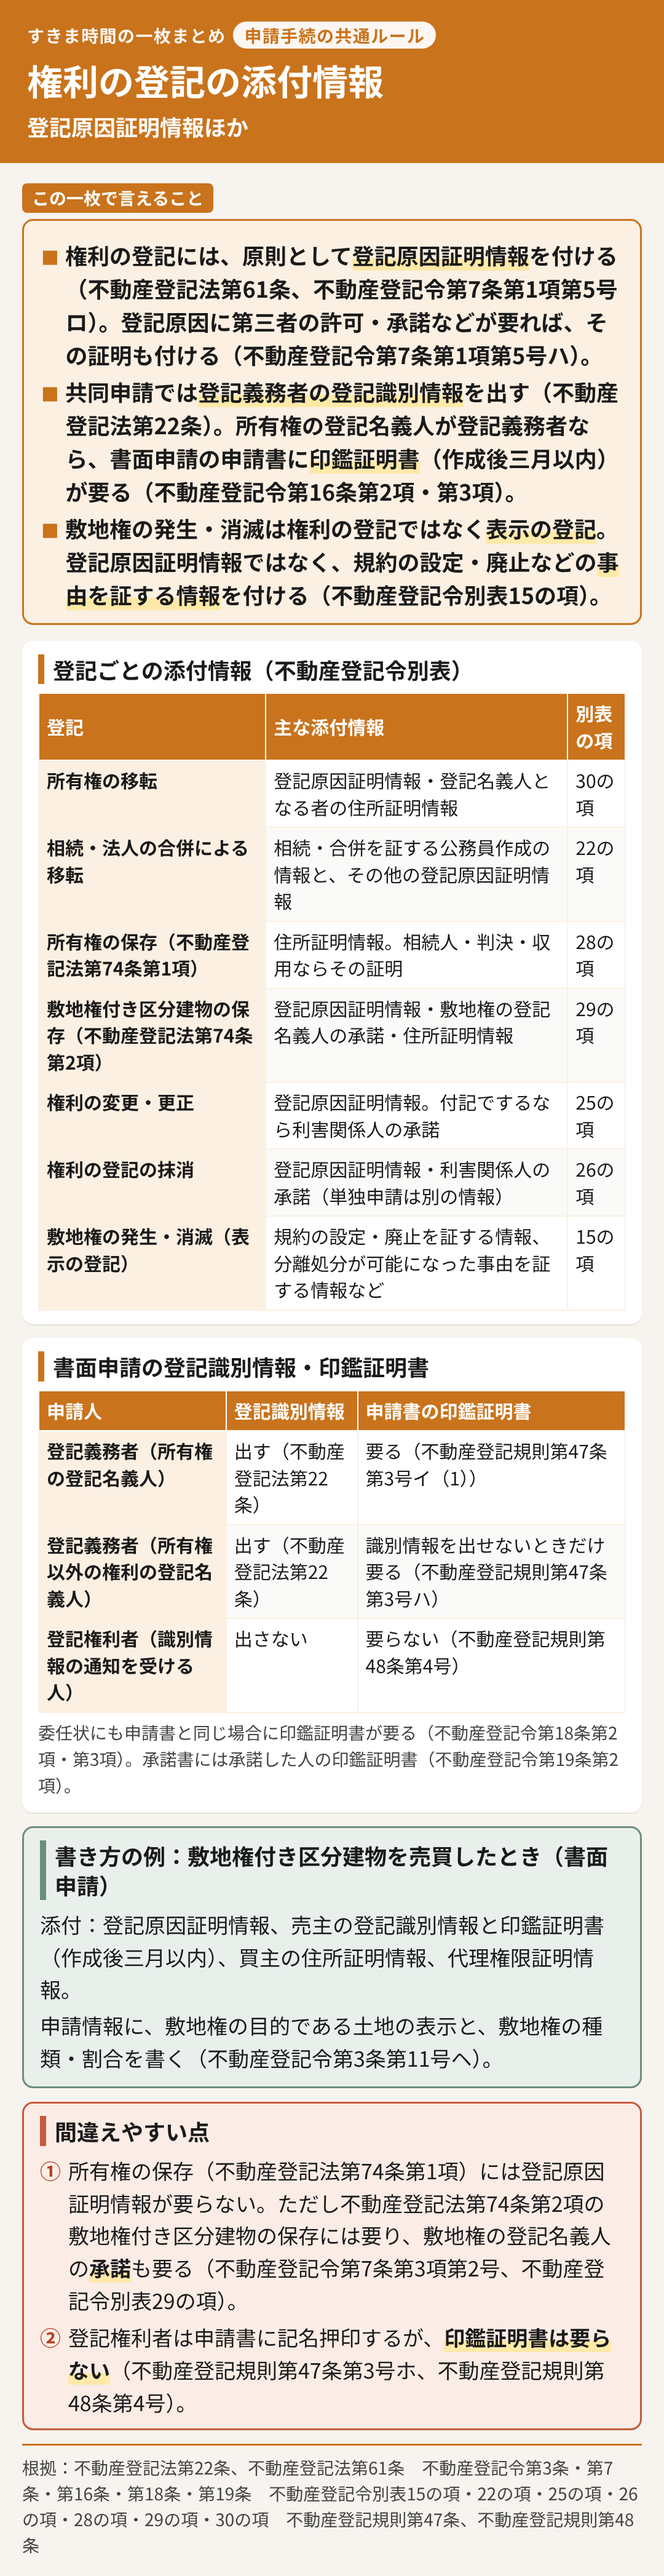
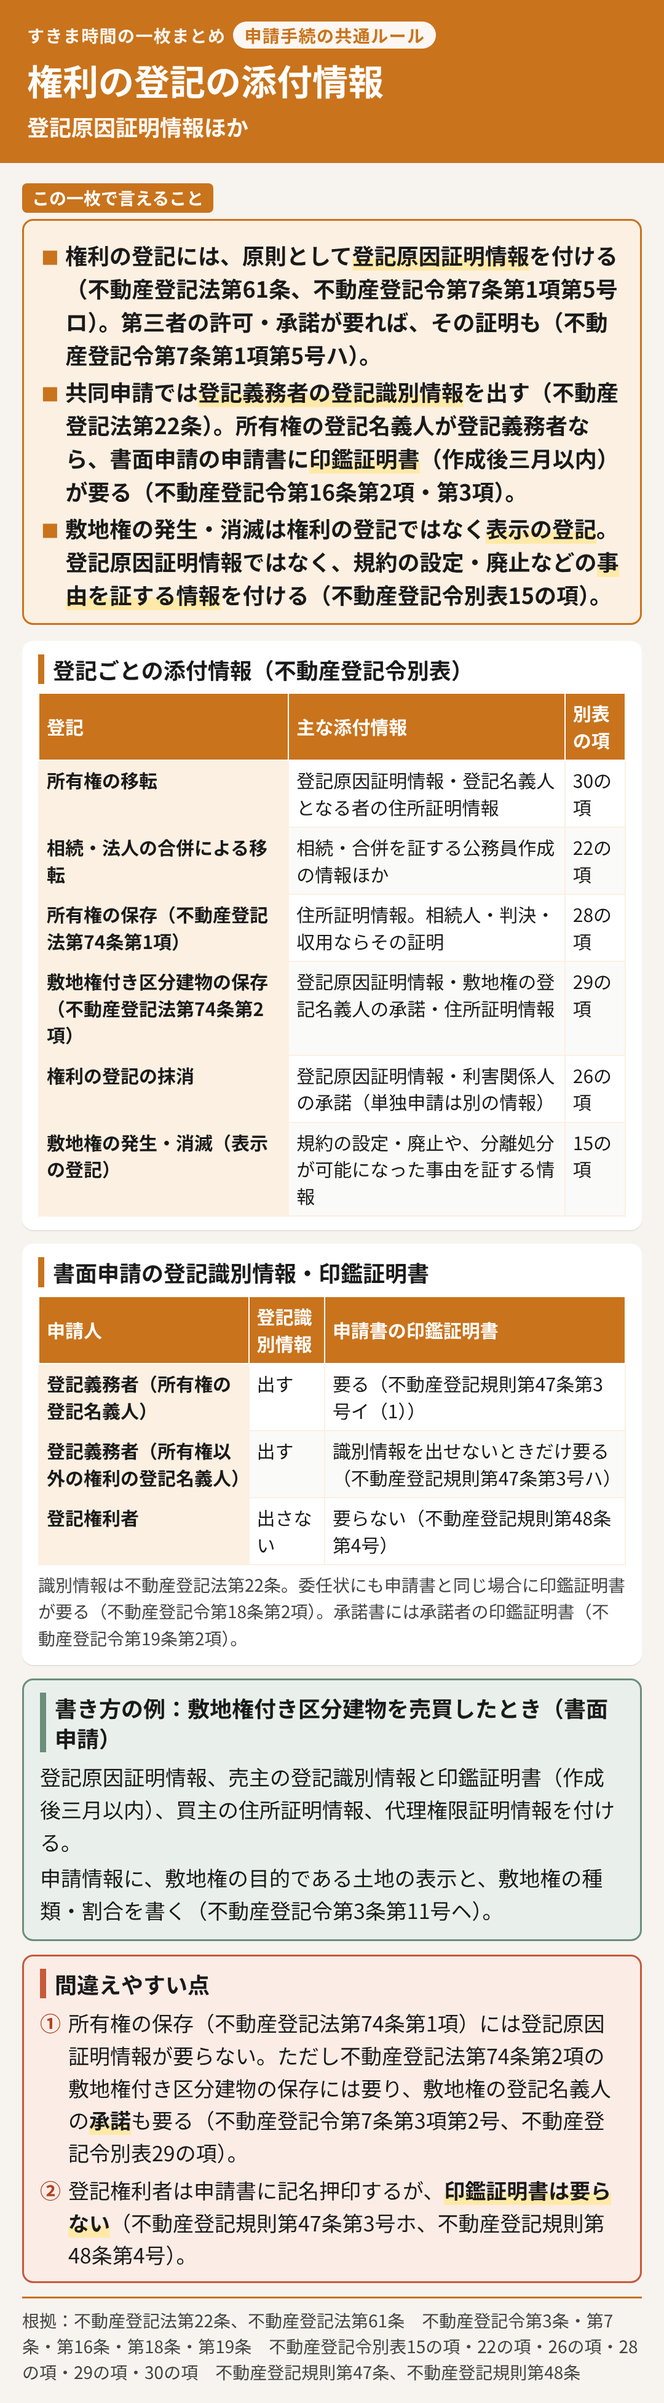
一枚まとめ：その2 C-06〜C-08・D-07、全58枚を作り直し（独立照合は次）
Claude-Session: https://claude.ai/code/session_019FhuTANsXXvwVxCcDLdTwv

Changed region(s): [[0.0, 0.0, 1.0, 0.9992]]

diff --git a/note-articles/ichimai-matome/sheets/D/D-07_tenpu-joho-kenri.html b/note-articles/ichimai-matome/sheets/D/D-07_tenpu-joho-kenri.html
@@ -38,29 +38,28 @@ b{font-weight:900;background:linear-gradient(transparent 62%,#FFE9A8 62%)}
 <div class="head"><div class="tag">すきま時間の一枚まとめ<span>申請手続の共通ルール</span></div><h1>権利の登記の添付情報</h1><div class="catch">登記原因証明情報ほか</div></div>
 <div class="wrap">
 <div class="lab2">この一枚で言えること</div>
-<div class="concl"><ul><li>権利の登記には、原則として<b>登記原因証明情報</b>を付ける（不動産登記法第61条、不動産登記令第7条第1項第5号ロ）。登記原因に第三者の許可・承諾などが要れば、その証明も付ける（不動産登記令第7条第1項第5号ハ）。</li><li>共同申請では<b>登記義務者の登記識別情報</b>を出す（不動産登記法第22条）。所有権の登記名義人が登記義務者なら、書面申請の申請書に<b>印鑑証明書</b>（作成後三月以内）が要る（不動産登記令第16条第2項・第3項）。</li><li>敷地権の発生・消滅は権利の登記ではなく<b>表示の登記</b>。登記原因証明情報ではなく、規約の設定・廃止などの<b>事由を証する情報</b>を付ける（不動産登記令別表15の項）。</li></ul></div>
+<div class="concl"><ul><li>権利の登記には、原則として<b>登記原因証明情報</b>を付ける（不動産登記法第61条、不動産登記令第7条第1項第5号ロ）。第三者の許可・承諾が要れば、その証明も（不動産登記令第7条第1項第5号ハ）。</li><li>共同申請では<b>登記義務者の登記識別情報</b>を出す（不動産登記法第22条）。所有権の登記名義人が登記義務者なら、書面申請の申請書に<b>印鑑証明書</b>（作成後三月以内）が要る（不動産登記令第16条第2項・第3項）。</li><li>敷地権の発生・消滅は権利の登記ではなく<b>表示の登記</b>。登記原因証明情報ではなく、規約の設定・廃止などの<b>事由を証する情報</b>を付ける（不動産登記令別表15の項）。</li></ul></div>
 <section class="blk">
 <h3>登記ごとの添付情報（不動産登記令別表）</h3>
 <table><thead><tr><th>登記</th><th>主な添付情報</th><th>別表の項</th></tr></thead><tbody>
 <tr><td>所有権の移転</td><td>登記原因証明情報・登記名義人となる者の住所証明情報</td><td>30の項</td></tr>
-<tr><td>相続・法人の合併による移転</td><td>相続・合併を証する公務員作成の情報と、その他の登記原因証明情報</td><td>22の項</td></tr>
+<tr><td>相続・法人の合併による移転</td><td>相続・合併を証する公務員作成の情報ほか</td><td>22の項</td></tr>
 <tr><td>所有権の保存（不動産登記法第74条第1項）</td><td>住所証明情報。相続人・判決・収用ならその証明</td><td>28の項</td></tr>
 <tr><td>敷地権付き区分建物の保存（不動産登記法第74条第2項）</td><td>登記原因証明情報・敷地権の登記名義人の承諾・住所証明情報</td><td>29の項</td></tr>
-<tr><td>権利の変更・更正</td><td>登記原因証明情報。付記でするなら利害関係人の承諾</td><td>25の項</td></tr>
 <tr><td>権利の登記の抹消</td><td>登記原因証明情報・利害関係人の承諾（単独申請は別の情報）</td><td>26の項</td></tr>
-<tr><td>敷地権の発生・消滅（表示の登記）</td><td>規約の設定・廃止を証する情報、分離処分が可能になった事由を証する情報など</td><td>15の項</td></tr>
+<tr><td>敷地権の発生・消滅（表示の登記）</td><td>規約の設定・廃止や、分離処分が可能になった事由を証する情報</td><td>15の項</td></tr>
 </tbody></table>
 </section>
 <section class="blk">
 <h3>書面申請の登記識別情報・印鑑証明書</h3>
 <table><thead><tr><th>申請人</th><th>登記識別情報</th><th>申請書の印鑑証明書</th></tr></thead><tbody>
-<tr><td>登記義務者（所有権の登記名義人）</td><td>出す（不動産登記法第22条）</td><td>要る（不動産登記規則第47条第3号イ（1））</td></tr>
-<tr><td>登記義務者（所有権以外の権利の登記名義人）</td><td>出す（不動産登記法第22条）</td><td>識別情報を出せないときだけ要る（不動産登記規則第47条第3号ハ）</td></tr>
-<tr><td>登記権利者（識別情報の通知を受ける人）</td><td>出さない</td><td>要らない（不動産登記規則第48条第4号）</td></tr>
+<tr><td>登記義務者（所有権の登記名義人）</td><td>出す</td><td>要る（不動産登記規則第47条第3号イ（1））</td></tr>
+<tr><td>登記義務者（所有権以外の権利の登記名義人）</td><td>出す</td><td>識別情報を出せないときだけ要る（不動産登記規則第47条第3号ハ）</td></tr>
+<tr><td>登記権利者</td><td>出さない</td><td>要らない（不動産登記規則第48条第4号）</td></tr>
 </tbody></table>
-<p class="bnote">委任状にも申請書と同じ場合に印鑑証明書が要る（不動産登記令第18条第2項・第3項）。承諾書には承諾した人の印鑑証明書（不動産登記令第19条第2項）。</p>
+<p class="bnote">識別情報は不動産登記法第22条。委任状にも申請書と同じ場合に印鑑証明書が要る（不動産登記令第18条第2項）。承諾書には承諾者の印鑑証明書（不動産登記令第19条第2項）。</p>
 </section>
-<div class="ex"><h3>書き方の例：敷地権付き区分建物を売買したとき（書面申請）</h3><div class="exl">添付：登記原因証明情報、売主の登記識別情報と印鑑証明書（作成後三月以内）、買主の住所証明情報、代理権限証明情報。</div><div class="exl">申請情報に、敷地権の目的である土地の表示と、敷地権の種類・割合を書く（不動産登記令第3条第11号ヘ）。</div></div>
+<div class="ex"><h3>書き方の例：敷地権付き区分建物を売買したとき（書面申請）</h3><div class="exl">登記原因証明情報、売主の登記識別情報と印鑑証明書（作成後三月以内）、買主の住所証明情報、代理権限証明情報を付ける。</div><div class="exl">申請情報に、敷地権の目的である土地の表示と、敷地権の種類・割合を書く（不動産登記令第3条第11号ヘ）。</div></div>
 <div class="trap"><h3>間違えやすい点</h3><ul><li><span class="n">①</span><span>所有権の保存（不動産登記法第74条第1項）には登記原因証明情報が要らない。ただし不動産登記法第74条第2項の敷地権付き区分建物の保存には要り、敷地権の登記名義人の<b>承諾</b>も要る（不動産登記令第7条第3項第2号、不動産登記令別表29の項）。</span></li><li><span class="n">②</span><span>登記権利者は申請書に記名押印するが、<b>印鑑証明書は要らない</b>（不動産登記規則第47条第3号ホ、不動産登記規則第48条第4号）。</span></li></ul></div>
-<div class="foot">根拠：不動産登記法第22条、不動産登記法第61条　不動産登記令第3条・第7条・第16条・第18条・第19条　不動産登記令別表15の項・22の項・25の項・26の項・28の項・29の項・30の項　不動産登記規則第47条、不動産登記規則第48条</div>
+<div class="foot">根拠：不動産登記法第22条、不動産登記法第61条　不動産登記令第3条・第7条・第16条・第18条・第19条　不動産登記令別表15の項・22の項・26の項・28の項・29の項・30の項　不動産登記規則第47条、不動産登記規則第48条</div>
 </div></body></html>

diff --git a/note-articles/ichimai-matome/src/sheets/D-07.py b/note-articles/ichimai-matome/src/sheets/D-07.py
@@ -2,9 +2,9 @@
 SHEET = dict(
     id='D-07',
     law='不動産登記令',
-    articles='不動産登記法第22条、不動産登記法第61条、不動産登記令第3条・第7条・第8条・第16条・第18条・第19条、不動産登記令別表15の項・22の項・25の項・26の項・28の項〜30の項、不動産登記規則第47条、不動産登記規則第48条',
+    articles='不動産登記法第22条、不動産登記法第61条、不動産登記令第3条・第7条・第8条・第16条・第18条・第19条、不動産登記令別表15の項・22の項・26の項・28の項〜30の項、不動産登記規則第47条、不動産登記規則第48条',
     conclusion=[
-        '権利の登記には、原則として**登記原因証明情報**を付ける（不動産登記法第61条、不動産登記令第7条第1項第5号ロ）。登記原因に第三者の許可・承諾などが要れば、その証明も付ける（不動産登記令第7条第1項第5号ハ）。',
+        '権利の登記には、原則として**登記原因証明情報**を付ける（不動産登記法第61条、不動産登記令第7条第1項第5号ロ）。第三者の許可・承諾が要れば、その証明も（不動産登記令第7条第1項第5号ハ）。',
         '共同申請では**登記義務者の登記識別情報**を出す（不動産登記法第22条）。所有権の登記名義人が登記義務者なら、書面申請の申請書に**印鑑証明書**（作成後三月以内）が要る（不動産登記令第16条第2項・第3項）。',
         '敷地権の発生・消滅は権利の登記ではなく**表示の登記**。登記原因証明情報ではなく、規約の設定・廃止などの**事由を証する情報**を付ける（不動産登記令別表15の項）。',
     ],
@@ -12,25 +12,24 @@ SHEET = dict(
         dict(kind='table', title='登記ごとの添付情報（不動産登記令別表）',
              head=['登記', '主な添付情報', '別表の項'],
              rows=[['所有権の移転', '登記原因証明情報・登記名義人となる者の住所証明情報', '30の項'],
-                   ['相続・法人の合併による移転', '相続・合併を証する公務員作成の情報と、その他の登記原因証明情報', '22の項'],
+                   ['相続・法人の合併による移転', '相続・合併を証する公務員作成の情報ほか', '22の項'],
                    ['所有権の保存（不動産登記法第74条第1項）', '住所証明情報。相続人・判決・収用ならその証明', '28の項'],
                    ['敷地権付き区分建物の保存（不動産登記法第74条第2項）', '登記原因証明情報・敷地権の登記名義人の承諾・住所証明情報', '29の項'],
-                   ['権利の変更・更正', '登記原因証明情報。付記でするなら利害関係人の承諾', '25の項'],
                    ['権利の登記の抹消', '登記原因証明情報・利害関係人の承諾（単独申請は別の情報）', '26の項'],
-                   ['敷地権の発生・消滅（表示の登記）', '規約の設定・廃止を証する情報、分離処分が可能になった事由を証する情報など', '15の項']]),
+                   ['敷地権の発生・消滅（表示の登記）', '規約の設定・廃止や、分離処分が可能になった事由を証する情報', '15の項']]),
         dict(kind='table', title='書面申請の登記識別情報・印鑑証明書',
              head=['申請人', '登記識別情報', '申請書の印鑑証明書'],
-             rows=[['登記義務者（所有権の登記名義人）', '出す（不動産登記法第22条）', '要る（不動産登記規則第47条第3号イ（1））'],
-                   ['登記義務者（所有権以外の権利の登記名義人）', '出す（不動産登記法第22条）', '識別情報を出せないときだけ要る（不動産登記規則第47条第3号ハ）'],
-                   ['登記権利者（識別情報の通知を受ける人）', '出さない', '要らない（不動産登記規則第48条第4号）']],
-             note='委任状にも申請書と同じ場合に印鑑証明書が要る（不動産登記令第18条第2項・第3項）。承諾書には承諾した人の印鑑証明書（不動産登記令第19条第2項）。'),
+             rows=[['登記義務者（所有権の登記名義人）', '出す', '要る（不動産登記規則第47条第3号イ（1））'],
+                   ['登記義務者（所有権以外の権利の登記名義人）', '出す', '識別情報を出せないときだけ要る（不動産登記規則第47条第3号ハ）'],
+                   ['登記権利者', '出さない', '要らない（不動産登記規則第48条第4号）']],
+             note='識別情報は不動産登記法第22条。委任状にも申請書と同じ場合に印鑑証明書が要る（不動産登記令第18条第2項）。承諾書には承諾者の印鑑証明書（不動産登記令第19条第2項）。'),
     ],
     example=dict(kind='書き方の例', title='敷地権付き区分建物を売買したとき（書面申請）',
-                 lines=['添付：登記原因証明情報、売主の登記識別情報と印鑑証明書（作成後三月以内）、買主の住所証明情報、代理権限証明情報。',
+                 lines=['登記原因証明情報、売主の登記識別情報と印鑑証明書（作成後三月以内）、買主の住所証明情報、代理権限証明情報を付ける。',
                         '申請情報に、敷地権の目的である土地の表示と、敷地権の種類・割合を書く（不動産登記令第3条第11号ヘ）。']),
     traps=['所有権の保存（不動産登記法第74条第1項）には登記原因証明情報が要らない。ただし不動産登記法第74条第2項の敷地権付き区分建物の保存には要り、敷地権の登記名義人の**承諾**も要る（不動産登記令第7条第3項第2号、不動産登記令別表29の項）。',
            '登記権利者は申請書に記名押印するが、**印鑑証明書は要らない**（不動産登記規則第47条第3号ホ、不動産登記規則第48条第4号）。'],
-    basis=['不動産登記法第22条、不動産登記法第61条', '不動産登記令第3条・第7条・第16条・第18条・第19条', '不動産登記令別表15の項・22の項・25の項・26の項・28の項・29の項・30の項', '不動産登記規則第47条、不動産登記規則第48条'],
+    basis=['不動産登記法第22条、不動産登記法第61条', '不動産登記令第3条・第7条・第16条・第18条・第19条', '不動産登記令別表15の項・22の項・26の項・28の項・29の項・30の項', '不動産登記規則第47条、不動産登記規則第48条'],
     more=['topics/KD_05_tenpu-jouhou-hayamihyou.md'],
     claims=[
         ('不動産登記法', '61', 'その申請情報と併せて登記原因を証する情報を提供しなければならない'),

diff --git a/note-articles/ichimai-matome/sheets/D/D-07_tenpu-joho-kenri.md b/note-articles/ichimai-matome/sheets/D/D-07_tenpu-joho-kenri.md
@@ -1,12 +1,12 @@
 ## 【土地家屋調査士試験】一枚まとめ_権利の登記の添付情報～登記原因証明情報ほか～
 
-**一枚まとめ　申請手続の共通ルール　｜　対象条文：不動産登記法第22条、不動産登記法第61条、不動産登記令第3条・第7条・第8条・第16条・第18条・第19条、不動産登記令別表15の項・22の項・25の項・26の項・28の項〜30の項、不動産登記規則第47条、不動産登記規則第48条**
+**一枚まとめ　申請手続の共通ルール　｜　対象条文：不動産登記法第22条、不動産登記法第61条、不動産登記令第3条・第7条・第8条・第16条・第18条・第19条、不動産登記令別表15の項・22の項・26の項・28の項〜30の項、不動産登記規則第47条、不動産登記規則第48条**
 
 > 【画像挿入】D-07_tenpu-joho-kenri.png　（この一枚の画像。保存しておけば、通信なしで見返せます）
 
 ### この一枚で言えること
 
-- 権利の登記には、原則として**登記原因証明情報**を付ける（不動産登記法第61条、不動産登記令第7条第1項第5号ロ）。登記原因に第三者の許可・承諾などが要れば、その証明も付ける（不動産登記令第7条第1項第5号ハ）。
+- 権利の登記には、原則として**登記原因証明情報**を付ける（不動産登記法第61条、不動産登記令第7条第1項第5号ロ）。第三者の許可・承諾が要れば、その証明も（不動産登記令第7条第1項第5号ハ）。
 - 共同申請では**登記義務者の登記識別情報**を出す（不動産登記法第22条）。所有権の登記名義人が登記義務者なら、書面申請の申請書に**印鑑証明書**（作成後三月以内）が要る（不動産登記令第16条第2項・第3項）。
 - 敷地権の発生・消滅は権利の登記ではなく**表示の登記**。登記原因証明情報ではなく、規約の設定・廃止などの**事由を証する情報**を付ける（不動産登記令別表15の項）。
 
@@ -15,26 +15,25 @@
 | 登記 | 主な添付情報 | 別表の項 |
 |---|---|---|
 | 所有権の移転 | 登記原因証明情報・登記名義人となる者の住所証明情報 | 30の項 |
-| 相続・法人の合併による移転 | 相続・合併を証する公務員作成の情報と、その他の登記原因証明情報 | 22の項 |
+| 相続・法人の合併による移転 | 相続・合併を証する公務員作成の情報ほか | 22の項 |
 | 所有権の保存（不動産登記法第74条第1項） | 住所証明情報。相続人・判決・収用ならその証明 | 28の項 |
 | 敷地権付き区分建物の保存（不動産登記法第74条第2項） | 登記原因証明情報・敷地権の登記名義人の承諾・住所証明情報 | 29の項 |
-| 権利の変更・更正 | 登記原因証明情報。付記でするなら利害関係人の承諾 | 25の項 |
 | 権利の登記の抹消 | 登記原因証明情報・利害関係人の承諾（単独申請は別の情報） | 26の項 |
-| 敷地権の発生・消滅（表示の登記） | 規約の設定・廃止を証する情報、分離処分が可能になった事由を証する情報など | 15の項 |
+| 敷地権の発生・消滅（表示の登記） | 規約の設定・廃止や、分離処分が可能になった事由を証する情報 | 15の項 |
 
 ### 書面申請の登記識別情報・印鑑証明書
 
 | 申請人 | 登記識別情報 | 申請書の印鑑証明書 |
 |---|---|---|
-| 登記義務者（所有権の登記名義人） | 出す（不動産登記法第22条） | 要る（不動産登記規則第47条第3号イ（1）） |
-| 登記義務者（所有権以外の権利の登記名義人） | 出す（不動産登記法第22条） | 識別情報を出せないときだけ要る（不動産登記規則第47条第3号ハ） |
-| 登記権利者（識別情報の通知を受ける人） | 出さない | 要らない（不動産登記規則第48条第4号） |
+| 登記義務者（所有権の登記名義人） | 出す | 要る（不動産登記規則第47条第3号イ（1）） |
+| 登記義務者（所有権以外の権利の登記名義人） | 出す | 識別情報を出せないときだけ要る（不動産登記規則第47条第3号ハ） |
+| 登記権利者 | 出さない | 要らない（不動産登記規則第48条第4号） |
 
-委任状にも申請書と同じ場合に印鑑証明書が要る（不動産登記令第18条第2項・第3項）。承諾書には承諾した人の印鑑証明書（不動産登記令第19条第2項）。
+識別情報は不動産登記法第22条。委任状にも申請書と同じ場合に印鑑証明書が要る（不動産登記令第18条第2項）。承諾書には承諾者の印鑑証明書（不動産登記令第19条第2項）。
 
 ### 書き方の例：敷地権付き区分建物を売買したとき（書面申請）
 
-- 添付：登記原因証明情報、売主の登記識別情報と印鑑証明書（作成後三月以内）、買主の住所証明情報、代理権限証明情報。
+- 登記原因証明情報、売主の登記識別情報と印鑑証明書（作成後三月以内）、買主の住所証明情報、代理権限証明情報を付ける。
 - 申請情報に、敷地権の目的である土地の表示と、敷地権の種類・割合を書く（不動産登記令第3条第11号ヘ）。
 
 ### 間違えやすい点
@@ -44,7 +43,7 @@
 
 ### 根拠とくわしい記事
 
-- 根拠：不動産登記法第22条、不動産登記法第61条、不動産登記令第3条・第7条・第16条・第18条・第19条、不動産登記令別表15の項・22の項・25の項・26の項・28の項・29の項・30の項、不動産登記規則第47条、不動産登記規則第48条
+- 根拠：不動産登記法第22条、不動産登記法第61条、不動産登記令第3条・第7条・第16条・第18条・第19条、不動産登記令別表15の項・22の項・26の項・28の項・29の項・30の項、不動産登記規則第47条、不動産登記規則第48条
 - くわしく読める記事：`topics/KD_05_tenpu-jouhou-hayamihyou.md`
 
 ---
@@ -128,4 +127,4 @@ Final check before rendering: confirm the image is exactly 1080x1440 portrait (3
 
 ---
 
-*画像（D-07_tenpu-joho-kenri.png）のサイズ：1080×4188。HTMLで組んで書き出した文字の図。*
+*画像（D-07_tenpu-joho-kenri.png）のサイズ：1080×3907。HTMLで組んで書き出した文字の図。*
